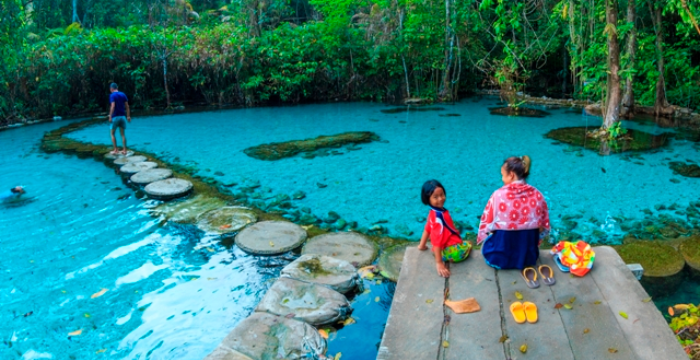
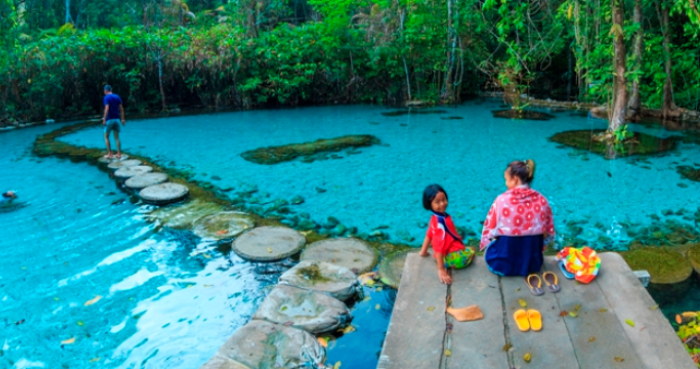
update pang

diff --git a/natural.html b/natural.html
@@ -50,7 +50,7 @@ ID 6502041520064 -->
       }
 
       .card:nth-of-type(1) .card-img {
-        background-image: url("./imgaes/khaosok.jpg");
+        background-image: url("./imgaes/khaosok.png");
       }
 
       .card:nth-of-type(2) .card-img {
@@ -58,7 +58,7 @@ ID 6502041520064 -->
       }
 
       .card:nth-of-type(3) .card-img {
-        background-image: url("./imgaes/watpchaiya.jpeg");
+        background-image: url("./imgaes/watpchaiya.png");
       }
 
       .card:nth-of-type(4) .card-img {
@@ -169,20 +169,24 @@ ID 6502041520064 -->
           <span class="close">&times;</span>
           <h2>Khao Sok National Park</h2>
         </div>
-        <div class="modal-body">
-          <p>Some text in the Modal Body</p>
-          <p>Some other text...</p>
-          <p>Some text in the Modal Body</p>
-          <p>Some other text...</p>
-          <p>Some text in the Modal Body</p>
-          <p>Some other text...</p>
-          <p>Some text in the Modal Body</p>
-          <p>Some other text...</p>
-          <p>Some text in the Modal Body</p>
-          <p>Some other text...</p>
-        </div>
-        <div class="modal-footer">
-          <h3>Modal Footer</h3>
+        <div class="modal-body row col-12">
+          <div class="col-12">
+            <div class="col-6">
+              <img src="./imgaes/khaosok.png" style="width: 100%" />
+            </div>
+            <div class="col-6">
+              <p
+                style="
+                  font-size: 1.5vw;
+                  color: #060606;
+                  margin-bottom: 90px;
+                  margin-top: 90;
+                "
+              >
+                Did you like this trip?
+              </p>
+            </div>
+          </div>
         </div>
       </div>
     </div>
@@ -191,14 +195,26 @@ ID 6502041520064 -->
       <div class="modal-content">
         <div class="modal-header">
           <span class="close">&times;</span>
-          <h2>2</h2>
+          <h2>Rajjaprabha Dam</h2>
         </div>
-        <div class="modal-body">
-          <p>Some text in the Modal Body</p>
-          <p>Some other text...</p>
-        </div>
-        <div class="modal-footer">
-          <h3>Modal Footer</h3>
+        <div class="modal-body row col-12">
+          <div class="col-12">
+            <div class="col-6">
+              <img src="./imgaes/rajjaprabha.png" style="width: 100%" />
+            </div>
+            <div class="col-6">
+              <p
+                style="
+                  font-size: 1.5vw;
+                  color: #060606;
+                  margin-bottom: 90px;
+                  margin-top: 90;
+                "
+              >
+                Did you like this trip?
+              </p>
+            </div>
+          </div>
         </div>
       </div>
     </div>
@@ -207,14 +223,26 @@ ID 6502041520064 -->
       <div class="modal-content">
         <div class="modal-header">
           <span class="close">&times;</span>
-          <h2>3</h2>
+          <h2>Wat Phra Borommathat Chaiya</h2>
         </div>
-        <div class="modal-body">
-          <p>Some text in the Modal Body</p>
-          <p>Some other text...</p>
-        </div>
-        <div class="modal-footer">
-          <h3>Modal Footer</h3>
+        <div class="modal-body row col-12">
+          <div class="col-12">
+            <div class="col-6">
+              <img src="./imgaes/watpchaiya.png" style="width: 100%" />
+            </div>
+            <div class="col-6">
+              <p
+                style="
+                  font-size: 1.5vw;
+                  color: #060606;
+                  margin-bottom: 90px;
+                  margin-top: 90;
+                "
+              >
+                Did you like this trip?
+              </p>
+            </div>
+          </div>
         </div>
       </div>
     </div>
@@ -223,14 +251,26 @@ ID 6502041520064 -->
       <div class="modal-content">
         <div class="modal-header">
           <span class="close">&times;</span>
-          <h2>4</h2>
+          <h2>Ban Nam Rat</h2>
         </div>
-        <div class="modal-body">
-          <p>Some text in the Modal Body</p>
-          <p>Some other text...</p>
-        </div>
-        <div class="modal-footer">
-          <h3>Modal Footer</h3>
+        <div class="modal-body row col-12">
+          <div class="col-12">
+            <div class="col-6">
+              <img src="./imgaes/namrat.png" style="width: 100%" />
+            </div>
+            <div class="col-6">
+              <p
+                style="
+                  font-size: 1.5vw;
+                  color: #060606;
+                  margin-bottom: 90px;
+                  margin-top: 90;
+                "
+              >
+                Did you like this trip?
+              </p>
+            </div>
+          </div>
         </div>
       </div>
     </div>
